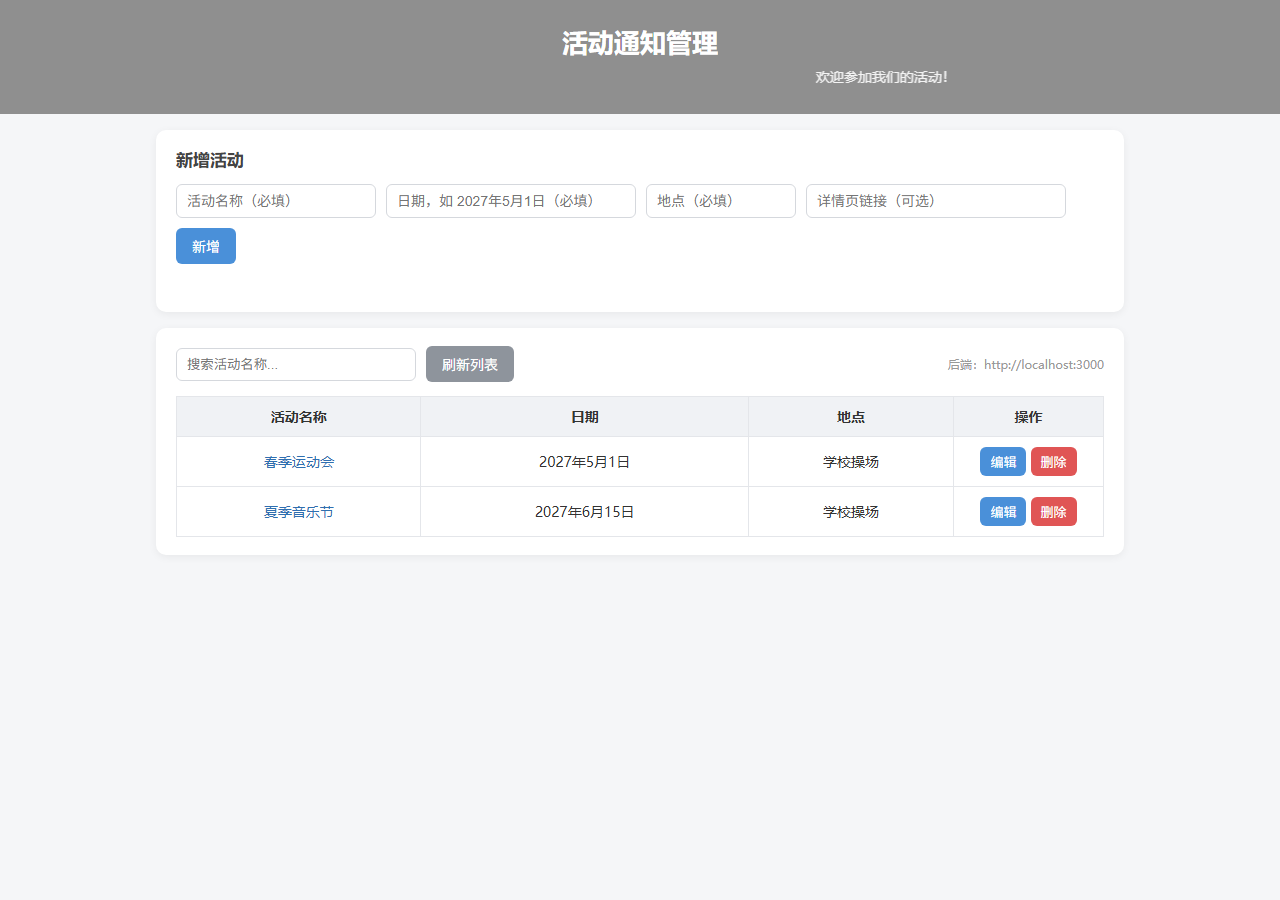
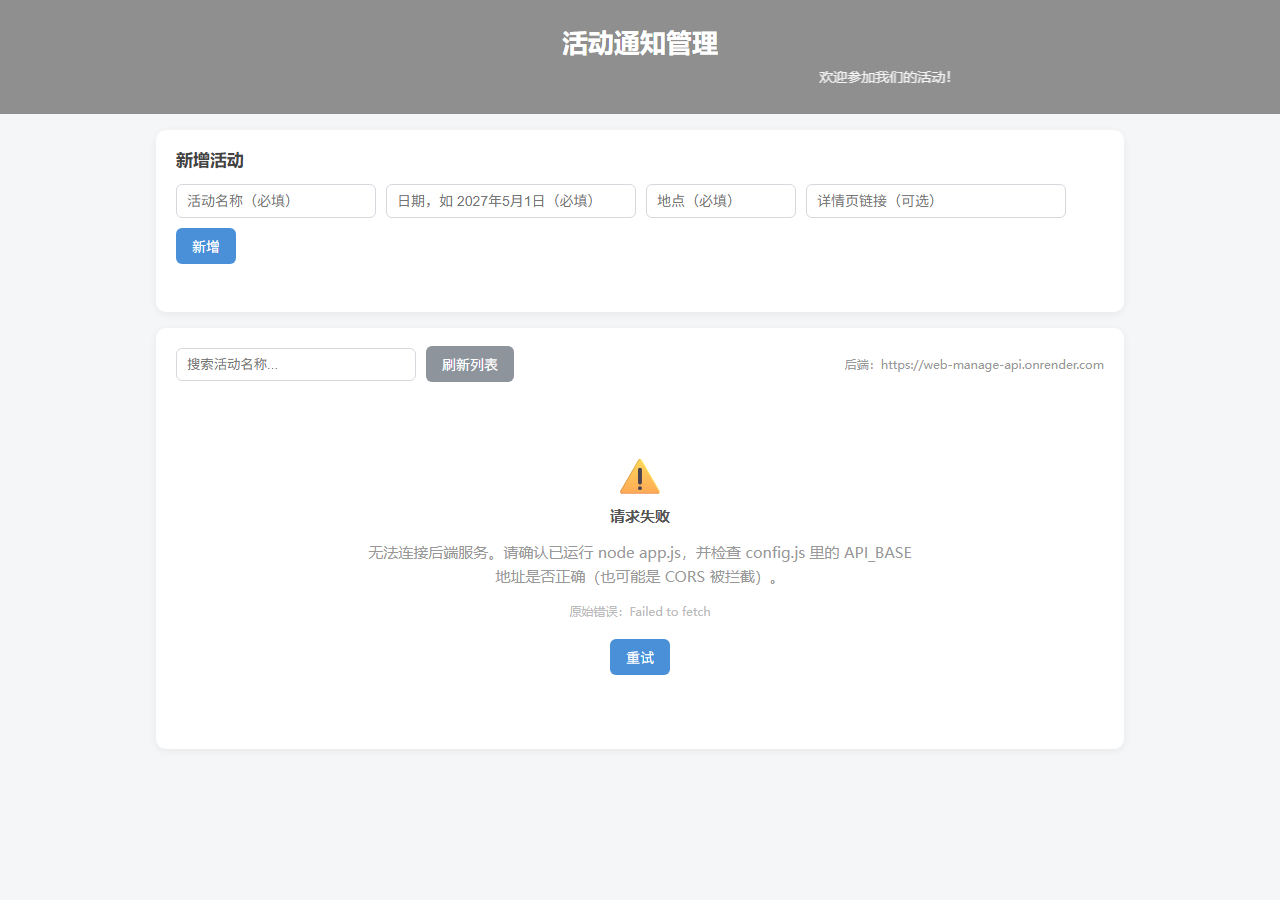
docs: 记录线上 GitHub Pages 访问未部署后端的真实 CORS 报错

diff --git a/docs/CORS问题记录.md b/docs/CORS问题记录.md
@@ -130,3 +130,36 @@ config.js 里的 API_BASE 还是 http://localhost:3000
 
 线上页面访问的是用户自己的电脑，`localhost` 指向用户本机，根本没有你的后端。
 **改成线上后端地址**（如 `https://xxx.onrender.com`）即可。
+
+## 八、线上真实案例（本书档对应的实际部署）
+
+把前端推上 GitHub Pages、后端地址指向 `https://web-manage-api.onrender.com`（尚未部署）后，
+用无头浏览器打开线上页面，抓到的**真实报错原文**：
+
+```
+Access to fetch at 'https://web-manage-api.onrender.com/api/activities'
+from origin 'https://grarew.github.io'
+has been blocked by CORS policy: No 'Access-Control-Allow-Origin' header is present
+on the requested resource.
+```
+
+```
+Failed to load resource: net::ERR_FAILED
+```
+
+页面表现（截图：[08-online-page.png](../screenshots/08-online-page.png)）：
+页面本身正常渲染，但列表区是「请求失败 + 重试」，浏览器 Network 面板显示请求被 CORS 拦下。
+
+**原因**：`web-manage-api.onrender.com` 这个域名还没有部署服务，访问它得到的是 Render 的 404 页面，
+自然没有 `Access-Control-Allow-Origin` 响应头。
+
+**解决**：把后端部署上去（见 [DEPLOY.md](../DEPLOY.md)），部署完成后：
+1. 该域名返回带 `Access-Control-Allow-Origin: *` 的接口响应；
+2. 若 Render 分配的域名不是 `web-manage-api.onrender.com`，同步修改 `config.js` 的 `PAGES_API_BASE`；
+3. 刷新线上页面，列表恢复正常。
+
+> 这也是「本地好好的、线上白屏」的另一种典型成因：
+> **地址写对了、但后端根本没部署，或者部署后 CORS 没开**。排查时先看 Network 面板的报错类型：
+> - `ERR_CONNECTION_REFUSED` / `ERR_NAME_NOT_RESOLVED` → 地址错了或服务没起；
+> - `blocked by CORS policy` → 服务在，但响应头缺；
+> - `404` → 路径或部署目标错了。
